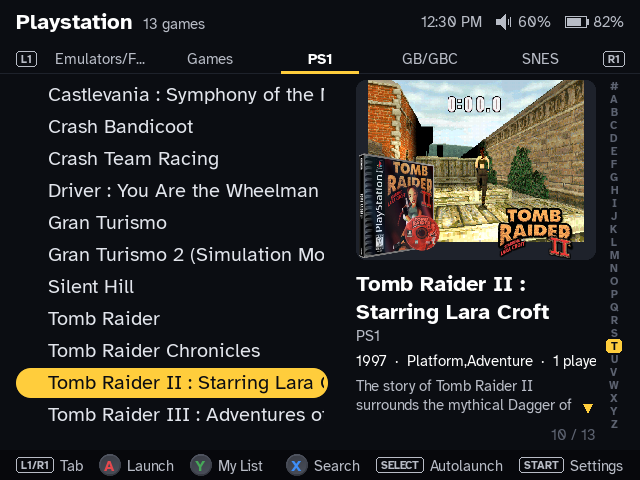
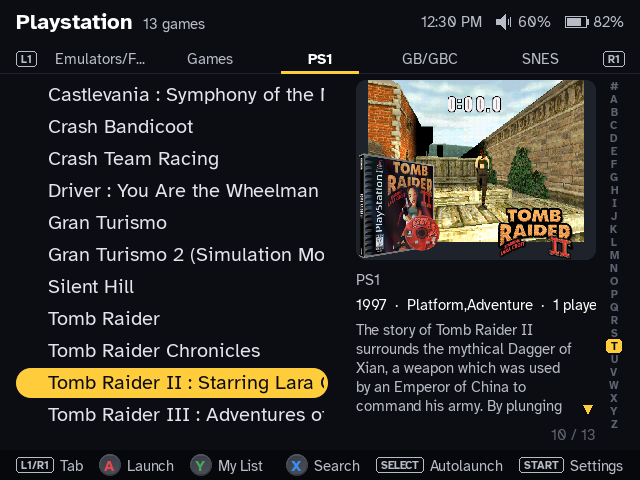
Puppy: the Showcase list's preview leaves the name to the list
The preview beside the list repeated the selected game's name over two
lines when it was long, which left the description two lines. The
selected row already shows the name, and scrolls it when it doesn't fit,
so the preview now starts with the system and the description gets the
room: five lines for Castlevania: Symphony of the Night and Tomb Raider
II instead of two.

README: showcase-list.png retaken with the Showcase screenshot script
(list, F1 x5, Down x9). The same script and keys on the previous build
give the old image pixel for pixel.

Changed region(s): [[0.5312, 0.5625, 0.9375, 0.875]]

diff --git a/rootfs/package/puppy/src/launcher.cpp b/rootfs/package/puppy/src/launcher.cpp
@@ -481,7 +481,7 @@ void LauncherScreen::renderRows(Ui& ui, int width) {
 }
 
 // The Showcase style's list (Shelf): the rows, an A-Z rail on the right, and between them the picture
-// over the game's name, system, data, play time and description.
+// over the game's system, data, play time and description (the selected row shows its name).
 void LauncherScreen::renderShelf(Ui& ui) {
     SDL_Renderer* renderer = ui.sdl();
     const Fonts& fonts = ui.font();
@@ -513,7 +513,6 @@ void LauncherScreen::renderShelf(Ui& ui) {
     if (!ui.drawFrame(trailer.frame(), box)) ui.drawIcon(ui.previewIcons(), e->iconPath, box);
     ui.roundCorners(box, 10, theme().bg);
     int y = box.y + box.h + 10;
-    y += ui.drawWrapped(fonts.uiBold, e->name, x, y, theme().text, w);
     drawText(renderer, fonts.small, c.mixed ? e->tag : tr(c.label), x, y, theme().muted, w);
     y += TTF_FontLineSkip(fonts.small) + 6;
     if (!e->meta.empty()) {
